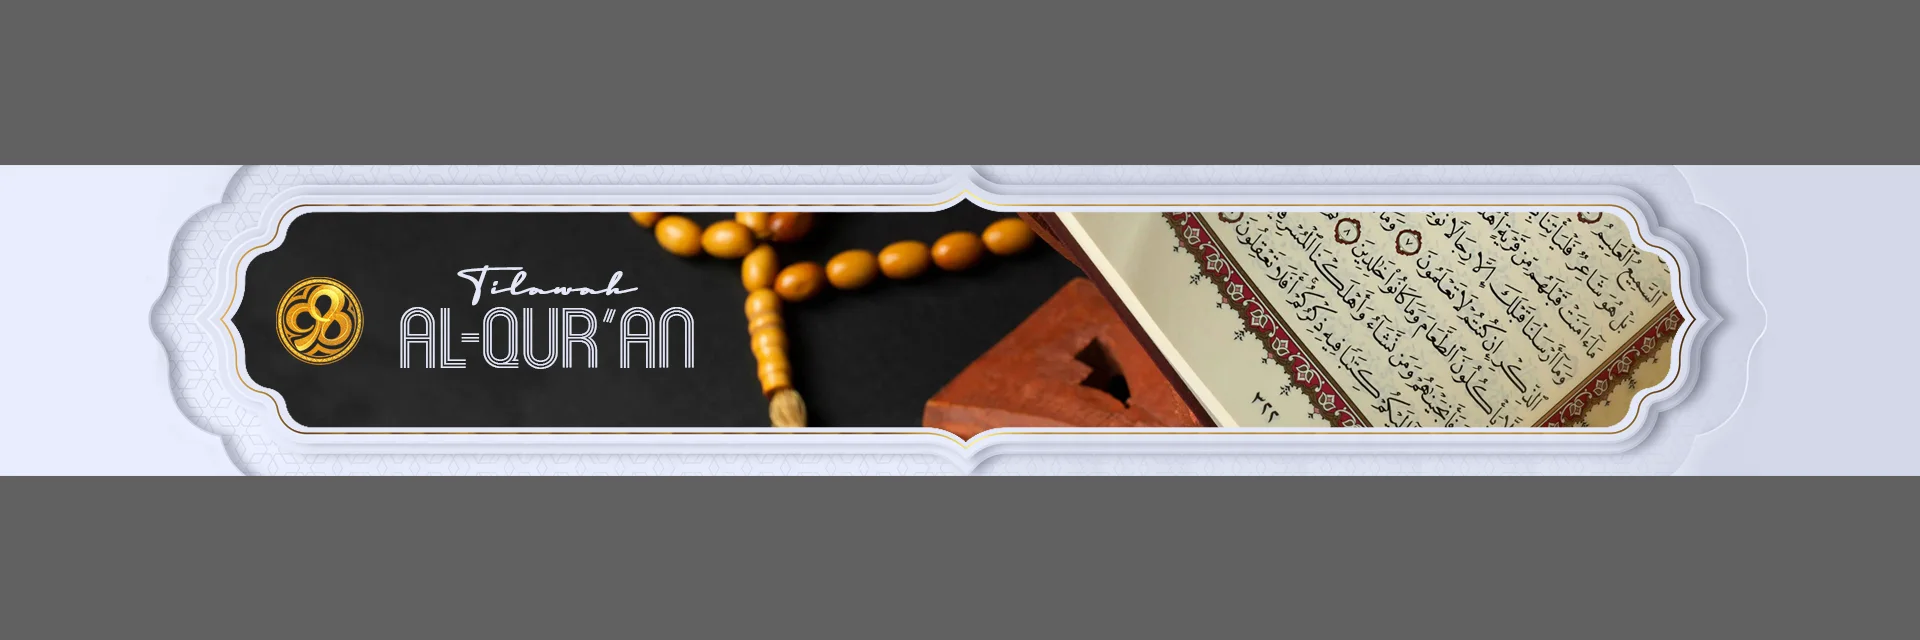
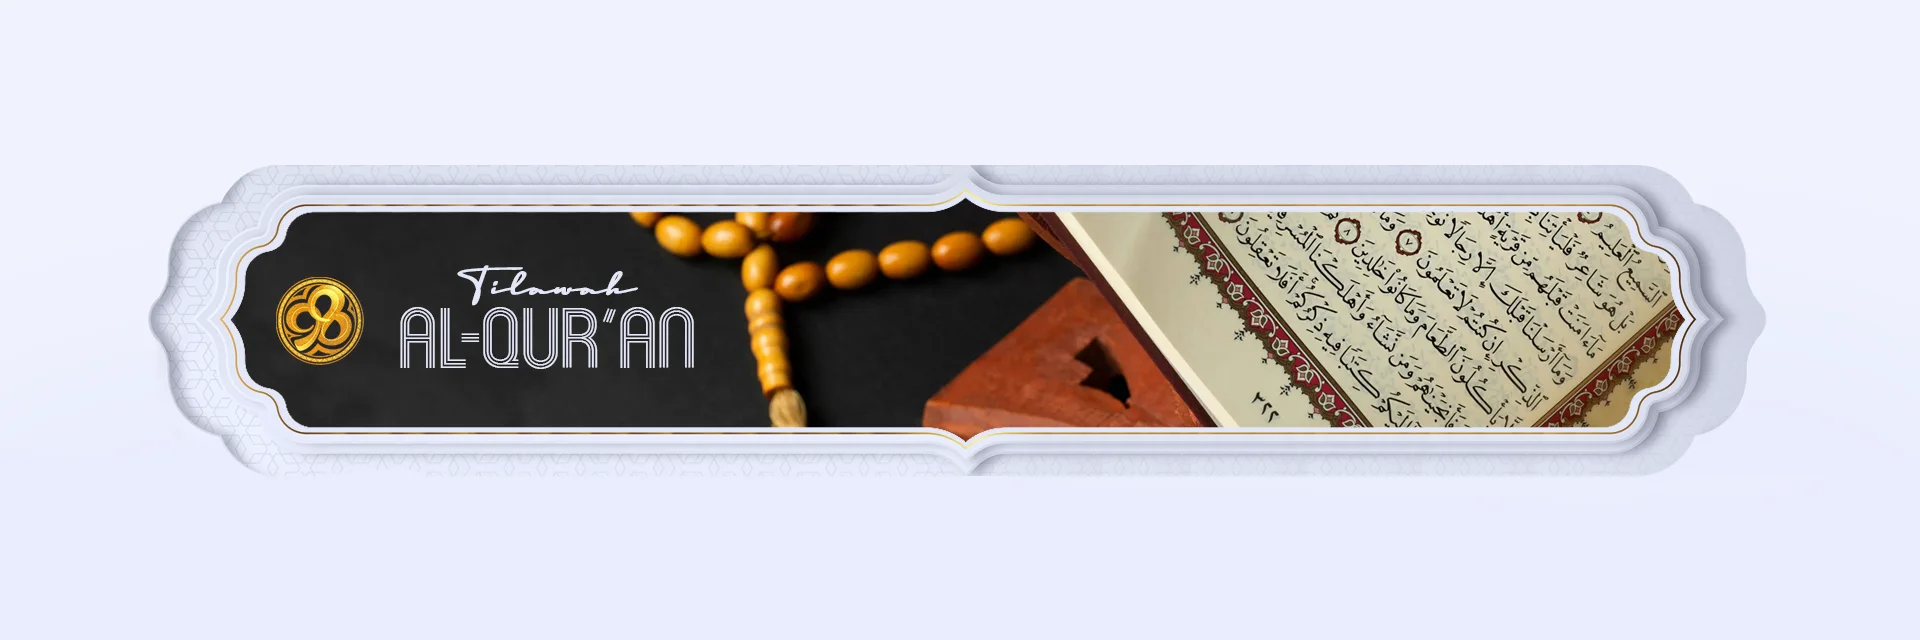
tilawah

diff --git a/assets/js/tilawah.js b/assets/js/tilawah.js
@@ -449,7 +449,8 @@ document.getElementById("yesReportBtn")?.addEventListener("click", async () => {
     try {
         if (window.firebaseDb) {
             const { doc, setDoc } = await import("https://www.gstatic.com/firebasejs/11.6.1/firebase-firestore.js");
-            const reportRef = doc(window.firebaseDb, "tilawah_reports", `pekan_${currentWeek}_juz_${juzNum}`);
+            const safeSurahId = suratName.replace(/[^a-zA-Z0-9]/g, "_");
+            const reportRef = doc(window.firebaseDb, "tilawah_reports", `pekan_${currentWeek}_juz_${juzNum}_surat_${safeSurahId}`);
             
             await setDoc(reportRef, {
                 pekan: currentWeek,
@@ -664,6 +665,45 @@ window.closeWaModal = function() {
     if (waModal) {
         waModal.classList.remove("flex");
         waModal.classList.add("hidden");
+    }
+};
+
+// ==========================================
+// FUNGSI MODAL KELOLA PESERTA OWOJ
+// ==========================================
+window.openManageModal = function() {
+    const modal = document.getElementById("manageParticipantsModal");
+    if (modal) {
+        modal.classList.remove("hidden");
+        modal.classList.add("flex");
+        
+        const selectEl = document.getElementById("alumniDbSelect");
+        if (selectEl) {
+            // 1. Ambil ID alumni yang sudah terdaftar sebagai peserta tilawah agar tidak muncul lagi
+            const registeredIds = assignedParticipants.map(p => p.id);
+
+            // 2. Filter data: Sembunyikan role 'admin' atau 'super_admin' DAN yang sudah terdaftar
+            const filteredAlumni = allDbAlumni.filter(a => {
+                const role = (a.role || "member").toLowerCase();
+                const isAdminOrSuper = role === "admin" || role === "super_admin";
+                const isAlreadyRegistered = registeredIds.includes(a.id);
+
+                // Hanya ambil yang bukan admin/super admin dan belum terdaftar
+                return !isAdminOrSuper && !isAlreadyRegistered;
+            });
+
+            // 3. Render ke dalam dropdown
+            selectEl.innerHTML = '<option value="">-- Pilih Alumni --</option>' + 
+                filteredAlumni.map(a => `<option value="${a.id}">${a.namaLengkap || a.namaPanggilan || 'Alumni'} (${a.namaPanggilan || '-'})</option>`).join('');
+        }
+    }
+};
+
+window.closeManageModal = function() {
+    const modal = document.getElementById("manageParticipantsModal");
+    if (modal) {
+        modal.classList.remove("flex");
+        modal.classList.add("hidden");
     }
 };
 
@@ -1077,7 +1117,8 @@ async function executeUnreportSurah(juzNumber, suratName, element) {
     try {
         if (window.firebaseDb) {
             const { doc, deleteDoc } = await import("https://www.gstatic.com/firebasejs/11.6.1/firebase-firestore.js");
-            await deleteDoc(doc(window.firebaseDb, "tilawah_reports", `pekan_${currentWeek}_juz_${juzNumber}`));
+            const safeSurahId = suratName.replace(/[^a-zA-Z0-9]/g, "_");
+            await deleteDoc(doc(window.firebaseDb, "tilawah_reports", `pekan_${currentWeek}_juz_${juzNumber}_surat_${safeSurahId}`));
         }
     } catch (err) {
         console.error("Gagal menghapus report dari Firebase:", err);

diff --git a/assets/css/tilawah.css b/assets/css/tilawah.css
@@ -7,7 +7,7 @@
     padding: 10px 18px;
     font-size: 13px;
     font-weight: 600;
-    color: #94a3b8;
+    color: #8698b5;
     background-color: #0f172a;
     border: 1px solid #1e293b;
     border-bottom: none;
@@ -23,36 +23,36 @@
 }
 
 .tab-btn.active {
-    color: #fbbf24;
+    color: #d1ae55;
     background-color: #1e293b;
-    border-color: #f59e0b;
-    border-bottom: 2px solid #f59e0b;
+    border-color: #d1ae55;
+    border-bottom: 2px solid #d1ae55;
 }
 
 /* BAR TAB TOP NAVIGATION */
 .tab-btn-bar {
     padding: 14px 8px;
-    background-color: #1e293b;
-    color: #94a3b8;
-    border-right: 1px solid #0f172a;
+    background-color: #d2d6e6 !important; /* Warna untuk tab tidak aktif (tandai merah) */
+    color: #0f172a !important;            /* Warna teks agar kontras dengan background terang */
+    border-right: 1px solid rgba(15, 23, 42, 0.1);
     transition: all 0.2s ease;
 }
 
 .tab-btn-bar:hover {
-    background-color: #334155;
-    color: #ffffff;
+    background-color: #bec3da !important;
+    color: #0f172a !important;
 }
 
 .tab-btn-bar.active {
-    background-color: #475569;
-    color: #ffffff;
-    box-shadow: inset 0 -3px 0 0 #fbbf24;
+    background-color: #bec3da !important; /* Warna untuk tab aktif (tandai hijau) */
+    color: #0f172a !important;            /* Warna teks pada tab aktif */
+    box-shadow: inset 0 -3px 0 0 #bec3da !important; /* Garis bawah aksen emas agar tetap terlihat jelas */
 }
 
 /* SURAH BOX GRID */
 .surah-card {
-    background-color: #020617;
-    border: 1px dashed #334155;
+    background-color: #0d0d0e;
+    border: 1px dashed #0d0d0e;
     border-radius: 8px;
     padding: 10px 12px;
     display: flex;
@@ -64,16 +64,16 @@
 }
 
 .surah-card:hover {
-    border-color: #fbbf24;
-    background-color: #0f172a;
+    border-color: #4e4e4e;
+    background-color: #080808;
 }
 
 /* ==========================================
    SELESAI PADA BOX NON-AKTIF (DARK) -> ABU-ABU
 ========================================== */
 .surah-card.completed-dark {
-    background-color: #8698b5 !important;
-    border: 1px solid #8698b5 !important;
+    background-color: #4b526b !important;
+    border: 1px solid #4b526b!important;
 }
 
 /* Memastikan angka nomor, nama surat, dan ayat berubah menjadi #070b1c */

diff --git a/tilawah.html b/tilawah.html
@@ -17,7 +17,7 @@
     <script src="https://cdn.tailwindcss.com"></script>
 </head>
 
-<body class="bg-slate-950 text-slate-100 min-h-screen flex flex-col font-sans">
+<body class="min-h-screen flex flex-col font-sans" style="background-color: #e9edfd; color: #0f172a;">
 
     <!-- ==========================================
          NAVBAR (KONSISTEN DENGAN INDEX.HTML)
@@ -61,15 +61,15 @@
     ========================================== -->
     <main class="flex-grow pt-2 pb-16 w-full">
 
-        <!-- HEADER BANNER TILAWAH (GAP ATAS & BAWAH DISESUAIKAN) -->
-        <div class="max-w-[1920px] mx-auto px-4 mb-4 mt-2">
-            <div class="w-full overflow-hidden rounded-2xl shadow-xl border border-slate-800">
-                <img src="assets/images/header tilawah.webp" alt="Header Tilawah IKA 11.98" class="w-full h-auto object-cover max-h-[300px]">
-            </div>
-        </div>
+        <!-- HEADER BANNER TILAWAH -->
+<div class="max-w-[1920px] mx-auto px-4 mb-4 mt-2">
+    <div class="w-full overflow-hidden rounded-2xl shadow-xl">
+        <img src="assets/images/header tilawah.webp" alt="Header Tilawah IKA 11.98" class="w-full h-auto object-cover max-h-[300px]">
+    </div>
+</div>
 
         <!-- TAB NAVIGATION BAR (GREY METALLIC STYLE LIKE DESIGN) -->
-        <div class="bg-slate-900 border-b border-slate-800 sticky top-16 z-40 shadow-md">
+        <div class="border-b border-slate-200 sticky top-16 z-40 shadow-md" style="background-color: #e4e8f8;">
             <div class="max-w-[1920px] mx-auto px-2">
                 <div class="grid grid-cols-2 md:grid-cols-4 text-center font-bold text-xs md:text-sm uppercase tracking-wider" id="tabContainer">
                     <button onclick="switchTab('tab1')" id="btnTab1" class="tab-btn-bar">
